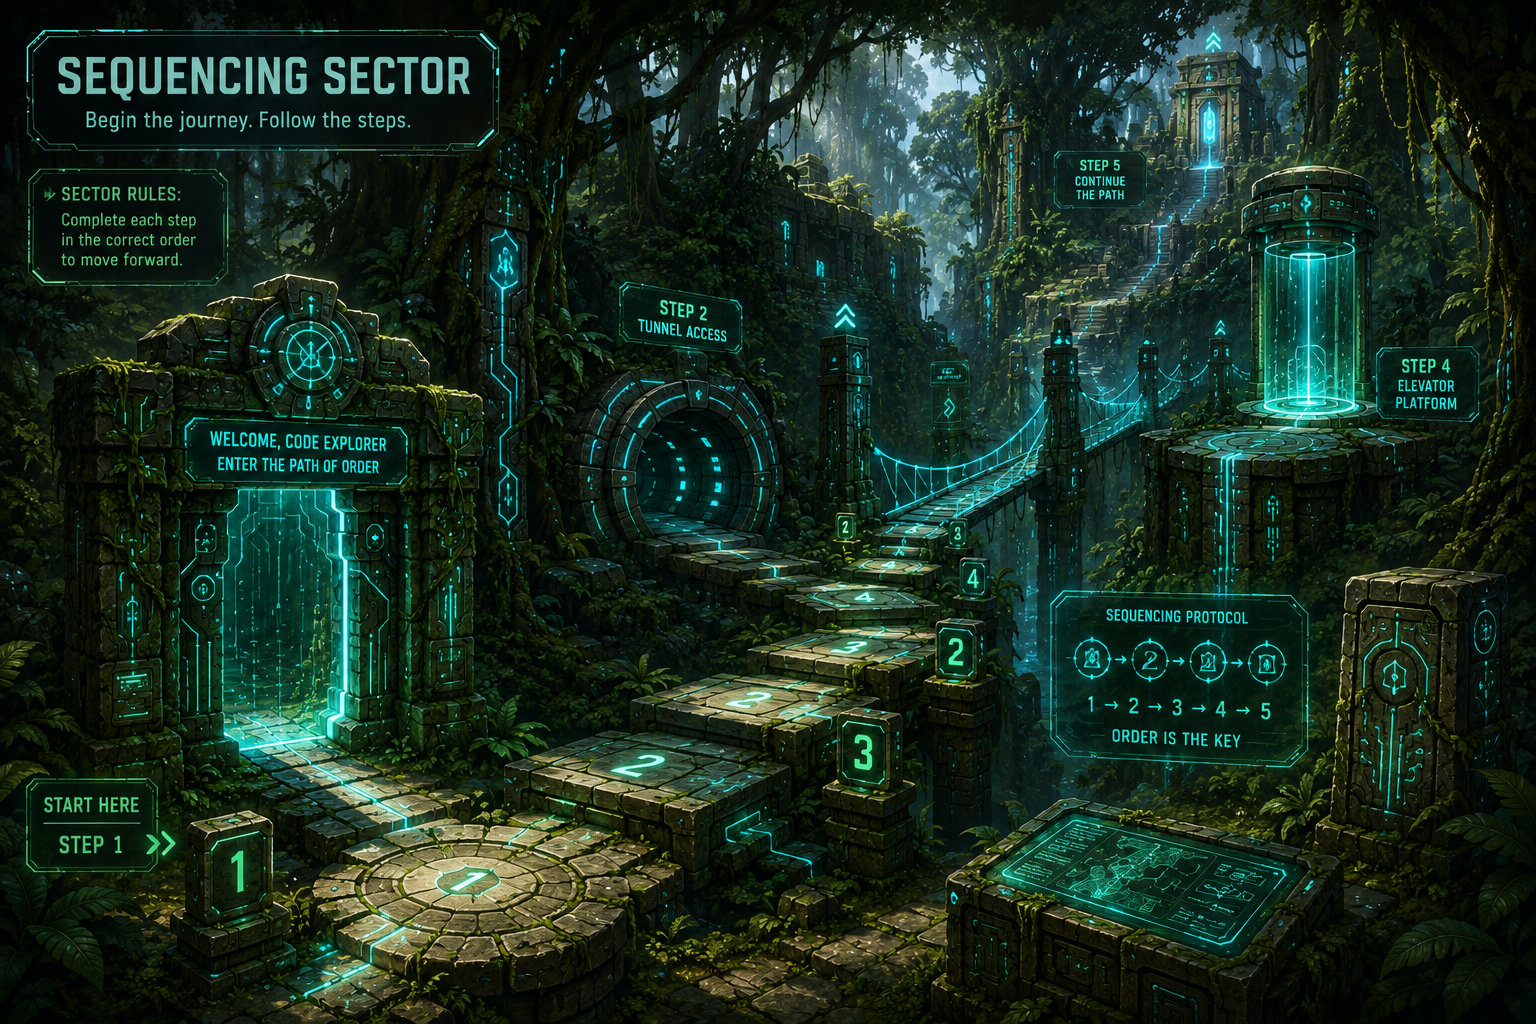
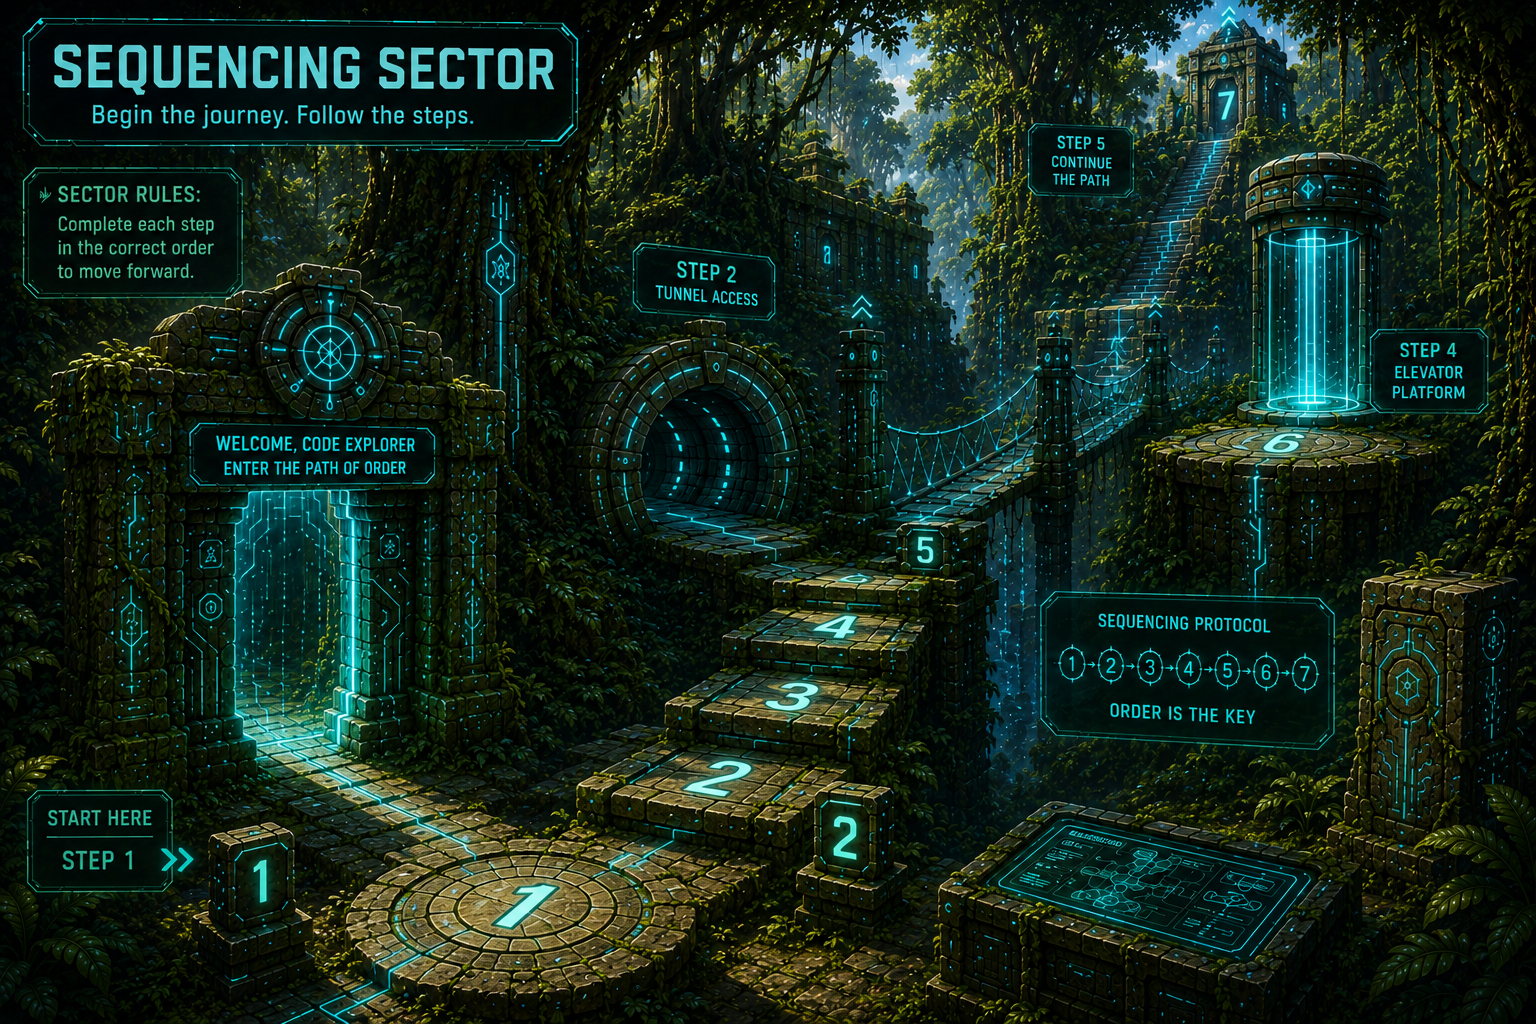
pushing changes made to profile atts

diff --git a/KhulaCodeApp/react_frontend/react_frontend_typescript/src/pages/courses/detail/detail-5.tsx b/KhulaCodeApp/react_frontend/react_frontend_typescript/src/pages/courses/detail/detail-5.tsx
@@ -42,6 +42,7 @@ const [refresh,setRefresh] = useState(false)
 const [xp,setXp] = useState(0)
 const [showXP,setShowXP] = useState(false)
 const [prevUnit,setPrevUnit] = useState(0)
+const [tag, setTag] = useState("")
 const {makeRequest} = useApi()
 
 
@@ -265,6 +266,15 @@ return ()=> clearTimeout(timer)
   }
 ,[lessonNumUrl,unitUrl,itemParam])
 
+useEffect (()=>
+{
+makeRequest("get-info/1/")
+.then((res=>res.json()))
+.then((data=>{setTag(data.profile_data.tag)
+}))
+},[refresh])
+
+
 useEffect(()=>
     {
       makeRequest(`lesson/${unitUrl}/${lessonNumUrl}/`)
@@ -273,7 +283,13 @@ useEffect(()=>
           setLesson(data)})
     },[refresh,unitUrl,lessonNumUrl])
 
-
+    useEffect(()=>
+        {
+          makeRequest(`lesson/${unitUrl}/${lessonNumUrl}/`)
+          .then( res => res.json())
+          .then( data => {
+              setLesson(data)})
+        },[refresh,unitUrl,lessonNumUrl])
 
 const handlePrevClick = ()=>{
     if(currentIndex>=1)
@@ -369,11 +385,11 @@ function CoursesOverview({border}:{border:boolean}) {
                     <div className="col-xl-7 col-lg-7 col-md-10">
                         <div className="ed_detail_wrap light">
                             <div className="course-type d-flex align-items-center gap-2 mb-1">
-                                <span className="badge bg-green rounded-pill">Current Title: </span>
+                                <span className="badge bg-green rounded-pill">{tag}</span>
                                 {/* <span className="badge bg-red rounded-pill"><i className="bi bi-tags me-1"></i>Pro</span> */}
                             </div>
                             <div className="ed_header_caption">
-                                <h2 className="ed_title">Khula Code: Lwazi's Adventure in the Cyber Jungle </h2>
+                                <h2 className="ed_title">Lwazi's Adventure in the Cyber Jungle </h2>
                                 {/* <ul>
                                     <li><i className="bi bi-calendar-check"></i>10 - 20 weeks</li>
                                     <li><i className="bi bi-calendar-check"></i>102 Lectures</li>

diff --git a/KhulaCodeApp/react_frontend/react_frontend_typescript/src/components/student-dashboard/student-navbar.tsx b/KhulaCodeApp/react_frontend/react_frontend_typescript/src/components/student-dashboard/student-navbar.tsx
@@ -41,7 +41,7 @@ export default function StudentNavbar({refreshKey}:{refreshKey?:boolean}) {
     
     useEffect(()=>{
         if(access)
-        {makeRequest("get-info/")
+        {makeRequest("get-info/0/")
             .then((res=>res.json()))
             .then((data)=>
             {
@@ -104,7 +104,7 @@ export default function StudentNavbar({refreshKey}:{refreshKey?:boolean}) {
             <div className="container">
                 <nav id="navigation" className={`${isMobile ? 'navigation navigation-portrait' : 'navigation navigation-landscape'}`}>
                     <div className="nav-header">
-                        <Link className="nav-brand" to="#">
+                        <Link className="nav-brand" to="/">
                             <img src={logo} className="logo" alt="" />
                         </Link>
                         <div className="nav-toggle" onClick={()=>setToggle(!toggle)}></div>

diff --git a/KhulaCodeApp/react_frontend/react_frontend_typescript/src/components/student-dashboard/student-admin-sidebar.tsx b/KhulaCodeApp/react_frontend/react_frontend_typescript/src/components/student-dashboard/student-admin-sidebar.tsx
@@ -27,7 +27,7 @@ export default function StudentAdminSidebar() {
 
 
     useEffect(()=>{
-        makeRequest("get-info/")
+        makeRequest("get-info/0/")
             .then((res=>res.json()))
             .then((data)=>
             {

diff --git a/KhulaCodeApp/react_frontend/react_frontend_typescript/src/pages/dashboard/student/student-dashboard.tsx b/KhulaCodeApp/react_frontend/react_frontend_typescript/src/pages/dashboard/student/student-dashboard.tsx
@@ -50,7 +50,7 @@ export default function StudentDashboard() {
     useEffect(()=>{
         if(access)
         {
-            makeRequest("get-info/")
+            makeRequest("get-info/0/")
             .then(res=>res.json())
             .then(data=>{setProfileInfo(data.profile_data)
             console.log(data.profile_data)

diff --git a/KhulaCodeApp/react_frontend/react_frontend_typescript/src/pages/inner-page/register.tsx b/KhulaCodeApp/react_frontend/react_frontend_typescript/src/pages/inner-page/register.tsx
@@ -111,7 +111,7 @@ const handleLogin = async (e:React.FormEvent)=>{
         console.log("signed in")
         
         navigate("/student-dashboard")
-        window.location.href="/"
+        window.location.href="/student-dashboard"
         
     }
 

diff --git a/KhulaCodeApp/backend/KhulaCode/serializers.py b/KhulaCodeApp/backend/KhulaCode/serializers.py
@@ -208,6 +208,7 @@ class StudentSerializer(serializers.ModelSerializer):
                     break
             if lesson_completed:
                 count+=1
+        self._lesson_count_cache = count
         return count
     def get_percentage(self,obj):
         count = self.get_lessons_completed(obj)
@@ -230,6 +231,51 @@ class StudentSerializer(serializers.ModelSerializer):
             return "http://127.0.0.1:8000/media/pfp/pfp6.png"
 
 
+class TagSerializer(serializers.ModelSerializer):
+    tag = serializers.SerializerMethodField()
+    class Meta:
+        model = Profile
+        fields =["tag"]
+    
+    def get_lessons_completed(self,obj):
+        if hasattr(self,"_lesson_count_cache"):
+            return self._lesson_count_cache
+        user = obj.user    
+        lessons = Lesson.objects.prefetch_related("activities","videos").all()
+        count =0
+        for lesson in lessons:
+
+            lesson_completed = True
+            items = sorted(list(lesson.videos.all())+list(lesson.activities.all()),key=lambda item:item.order)
+            if not items:
+                continue
+            for item in items:
+                if isinstance(item,Video):
+                    completed = VideoProgress.objects.filter(video=item,user=user,completed=True).exists()
+                else:
+                    completed = ActivityProgress.objects.filter(activity=item,user=user,completed=True).exists()
+                if not completed:
+                    lesson_completed = False
+                    break
+            if lesson_completed:
+                count+=1
+        return count
+    def get_tag(self,obj):
+        count = self.get_lessons_completed(obj)
+        if count<3:
+            return "Beginner"
+        elif count<5:
+            return "Jungle Explorer"
+        elif count<8:
+            return "Path Finder"
+        elif count <13:
+            return "Code Tracker"
+        elif count<17:
+            return "Cyber Adventurer"
+        elif count <21:
+            return "Logic Warrior"
+        else:
+            return "Cyber Jungle Hero"
 
 
 class ProfileSerializer(serializers.ModelSerializer):
@@ -316,8 +362,9 @@ class ProfileSerializer(serializers.ModelSerializer):
             return "http://127.0.0.1:8000/media/areas/done.png"
     def get_tag(self,obj):
         count = self.get_lessons_completed(obj)
-        
-        if count<5:
+        if count<3:
+            return "Beginner"
+        elif count<5:
             return "Jungle Explorer"
         elif count<8:
             return "Path Finder"
@@ -331,8 +378,9 @@ class ProfileSerializer(serializers.ModelSerializer):
             return "Cyber Jungle Hero"
     def get_img(self,obj):
         count = self.get_lessons_completed(obj)
-        
-        if count<5:
+        if count<3:
+            return "http://127.0.0.1:8000/media/pfp/pfp0.png"
+        elif count<5:
             return "http://127.0.0.1:8000/media/pfp/pfp1.png"
         elif count<8:
             return "http://127.0.0.1:8000/media/pfp/pfp2.png"

diff --git a/KhulaCodeApp/backend/KhulaCode/views.py b/KhulaCodeApp/backend/KhulaCode/views.py
@@ -9,7 +9,7 @@ from rest_framework.permissions import IsAuthenticated, IsAdminUser
 from rest_framework.decorators import api_view, permission_classes
 from django.contrib.auth.tokens import default_token_generator
 from django.contrib.auth.models import User
-from .serializers import  ProfileSerializer, RegisterSerializer, TokenSerializer, LessonSerializer, CurriculumSerializer, LessonListSerializer,StudentSerializer
+from .serializers import  ProfileSerializer, RegisterSerializer, TokenSerializer, LessonSerializer, CurriculumSerializer, LessonListSerializer,StudentSerializer,TagSerializer
 from .models import Profile, Lesson , Activity, Video, Choice, ActivityProgress,VideoProgress, Video
 from rest_framework_simplejwt.views import TokenObtainPairView
 FRONTEND_URL = "http://localhost:5173"
@@ -28,12 +28,13 @@ def get_all_students(request):
 
 @api_view(["GET"])
 @permission_classes([IsAuthenticated])
-def get_profile_info(request):
+def get_profile_info(request,check):
     user = request.user
     profile = get_object_or_404(Profile,user=user)
-    serializer = ProfileSerializer(profile)
-
-    
+    if check==1:
+        serializer = TagSerializer(profile)
+    else:
+        serializer = ProfileSerializer(profile)
     return Response({"profile_data":serializer.data})
 
 @api_view(["GET"])

diff --git a/KhulaCodeApp/backend/KhulaCode/urls.py b/KhulaCodeApp/backend/KhulaCode/urls.py
@@ -24,7 +24,7 @@ path("video/<int:lesson_id>/<int:id>/attempt/",mark_video_complete,name="video_c
 # path("lesson/<int:lesson_num>/activity/",),
 path("make-lesson/",make_lesson,name="make-lesson"),
 path("get-last/",get_most_recent,name="get_most_recent"),
-path("get-info/",get_profile_info,name="get_info"),
+path("get-info/<int:check>/",get_profile_info,name="get_info"),
 path("num-lesson-unit/<int:unit>/",get_num_lesson_unit,name="get_num_lessons"),
 path("get-all-student",get_all_students,name="get_all_students")
 